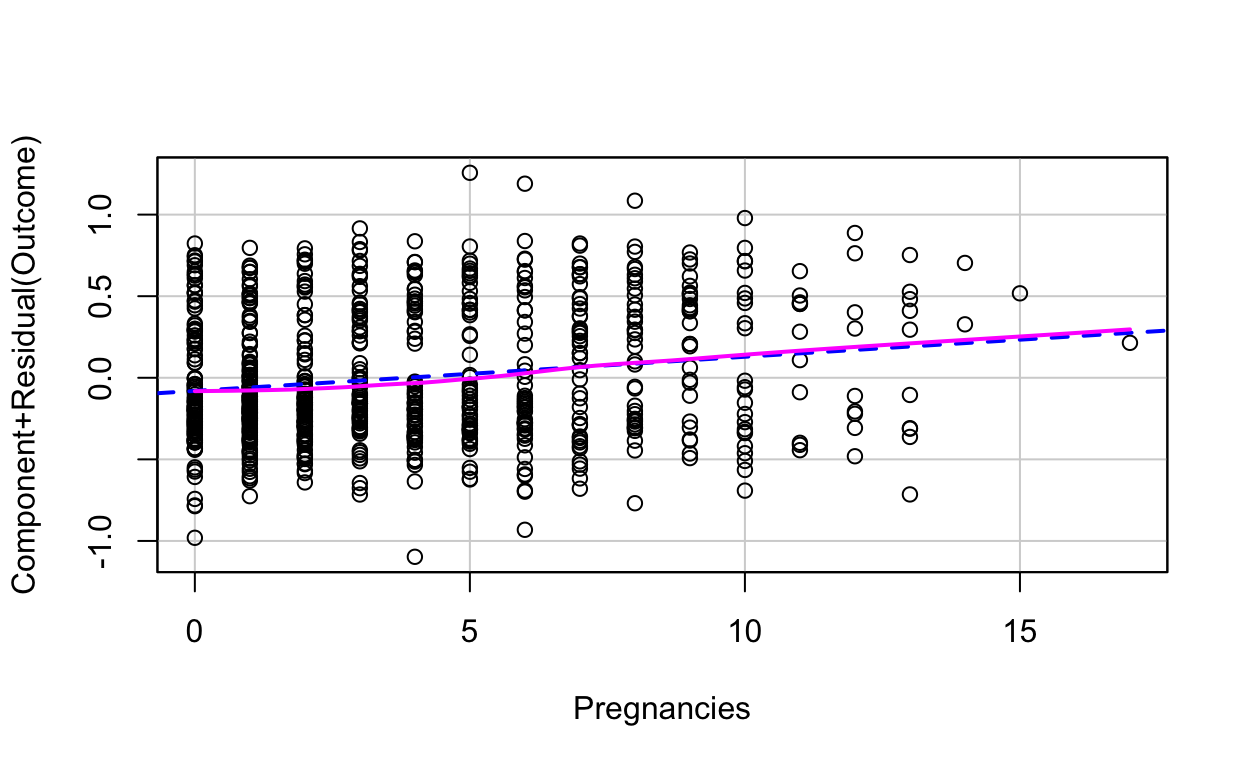
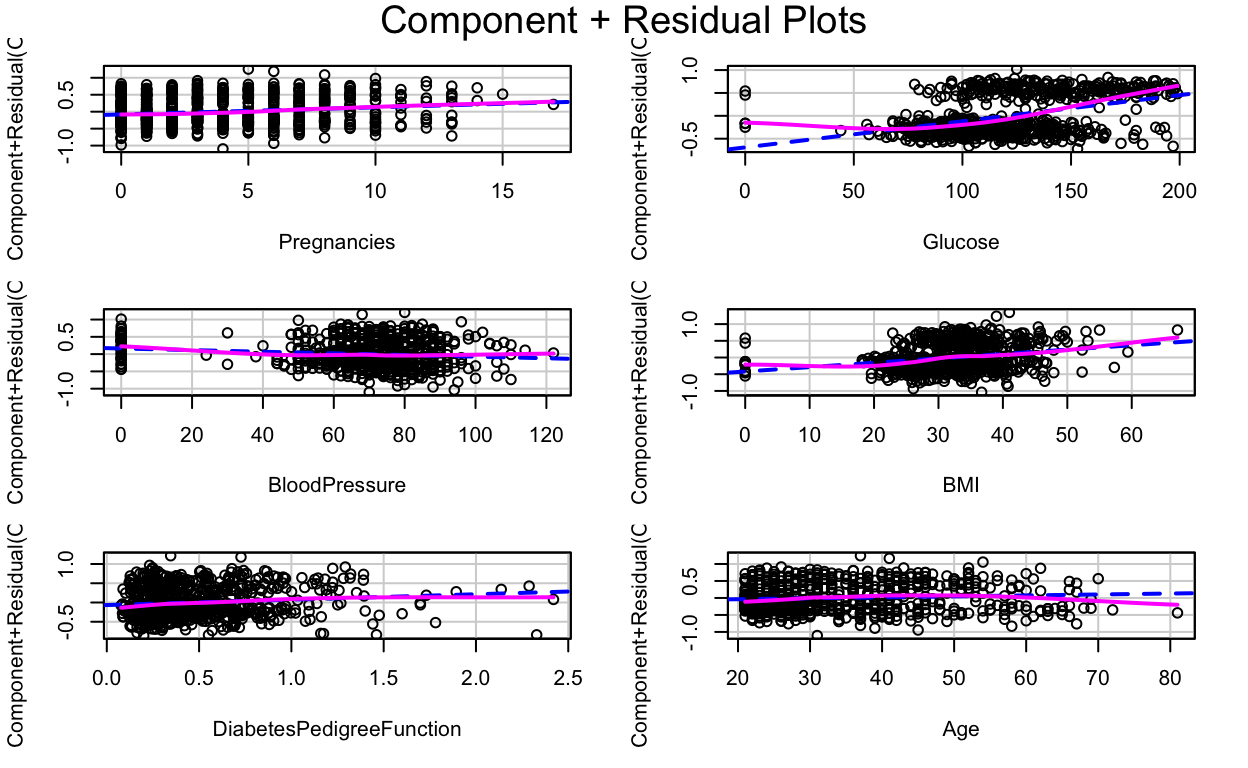
add assumptions to analytical statistics

diff --git a/StatisticaL-Analysis.html b/StatisticaL-Analysis.html
@@ -559,8 +559,6 @@ unseen observations</li>
 <li>Quantify the prediction error as the mean squared difference between
 the observed and the predicted outcome values.</li>
 </ul>
-<p>WE split the data set so that 80% is used for training a regression
-model and 20% is used to evaluate the model performance.</p>
 <p>ALL criterions are similar, so we choose the simplest
 model.(stepmodel)</p>
 <pre class="r"><code>criterion &lt;- c(&quot;AIC&quot;, &quot;AUC&quot;, &quot;RMSE&quot;, &quot;MAE&quot;,&quot;Prediction Accuracy&quot;)
@@ -568,10 +566,10 @@ full_val &lt;- c(783.82,0.7135,0.4249,0.3468,0.7451)
 step_val &lt;- c(781.44,0.7107,0.4249,0.3467,0.7451)
 sub_val &lt;- c(781.84,0.7135,0.4239,0.3461,0.7451)
 variable_data &lt;- data.frame(criterion,full_val,step_val,sub_val)
-kable(variable_data,caption = &quot;Model Comparison&quot;, col.names = c(&quot;Criterion&quot;,&quot;Full Model&quot;,&quot;Stepwise model&quot;,&quot;Subset model&quot;))%&gt;% kable_styling(latex_option = c(&quot;hold_position&quot;), position = &quot;left&quot;)</code></pre>
+kable(variable_data,caption = &quot;Table 1.Model Comparison&quot;, col.names = c(&quot;Criterion&quot;,&quot;Full Model&quot;,&quot;Stepwise model&quot;,&quot;Subset model&quot;))%&gt;% kable_styling(latex_option = c(&quot;hold_position&quot;), position = &quot;left&quot;)</code></pre>
 <table class="table" style>
 <caption>
-Model Comparison
+Table 1.Model Comparison
 </caption>
 <thead>
 <tr>
@@ -662,95 +660,85 @@ Prediction Accuracy
 </tr>
 </tbody>
 </table>
-<p>Root Mean Squared Error (RMSE): As the name suggests it is the square
-root of the averaged squared difference between the actual value and the
-predicted value of the target variable. It gives the average prediction
-error made by the model, thus decrease the RMSE value to increase the
-accuracy of the model.</p>
-<p>Mean Absolute Error (MAE): This metric gives the absolute difference
-between the actual values and the values predicted by the model for the
-target variable. If the value of the outliers does not have much to do
-with the accuracy of the model, then MAE can be used to evaluate the
-performance of the model. Its value must be less in order to make better
-models.</p>
-<div id="what-is-roc-and-auc" class="section level4">
-<h4>What is ROC and AUC?</h4>
-<p>An ROC curve (receiver operating characteristic curve) is a graph
-showing the performance of a classification model at all classification
-thresholds. In technical terms, the ROC curve is plotted between the
-True Positive Rate and the False Positive Rate of a model.</p>
-<p>AUC stands for “Area under the ROC Curve.” That is, AUC measures the
-entire two-dimensional area underneath the entire ROC curve. Higher the
-AUC score, better is the classification of the predicted values. For
-example, consider a model to predict and classify whether the outcome is
-‘Diabetes” or ‘Normal’.So, if the AUC score is high, it indicates that
-the model is capable of classifying ‘Diabetes” as ’Diabetes” and
-‘Normal’ as ‘Normal’ more efficiently.</p>
 </div>
-<div id="why-use-auc" class="section level4">
-<h4>Why use AUC?</h4>
-<p>AUC is desirable for the following two reasons:</p>
-<p>AUC is scale-invariant. It measures how well predictions are ranked,
-rather than their absolute values. AUC is
-classification-threshold-invariant. It measures the quality of the
-model’s predictions irrespective of what classification threshold is
-chosen.</p>
-<pre class="r"><code>predictions &lt;- full_train %&gt;% predict(test.data) 
-predict.class &lt;- ifelse(predictions &lt; 0.5,0,1)
-rocobj1 &lt;- roc(test.data$Outcome, predict.class)</code></pre>
-<pre><code>## Setting levels: control = 0, case = 1</code></pre>
-<pre><code>## Setting direction: controls &lt; cases</code></pre>
-<pre class="r"><code>rocobj1</code></pre>
-<pre><code>## 
-## Call:
-## roc.default(response = test.data$Outcome, predictor = predict.class)
-## 
-## Data: predict.class in 101 controls (test.data$Outcome 0) &lt; 52 cases (test.data$Outcome 1).
-## Area under the curve: 0.7293</code></pre>
-<pre class="r"><code>predictions &lt;- step_train %&gt;% predict(test.data) 
-predict.class &lt;- ifelse(predictions &lt; 0.5,0,1)
-rocobj2 &lt;- roc(test.data$Outcome, predict.class)</code></pre>
-<pre><code>## Setting levels: control = 0, case = 1</code></pre>
-<pre><code>## Setting direction: controls &lt; cases</code></pre>
-<pre class="r"><code>rocobj2</code></pre>
-<pre><code>## 
-## Call:
-## roc.default(response = test.data$Outcome, predictor = predict.class)
-## 
-## Data: predict.class in 101 controls (test.data$Outcome 0) &lt; 52 cases (test.data$Outcome 1).
-## Area under the curve: 0.7194</code></pre>
-<pre class="r"><code>predictions &lt;- subset_train %&gt;% predict(test.data) 
-predict.class &lt;- ifelse(predictions &lt; 0.5,0,1)
-rocobj3 &lt;- roc(test.data$Outcome, predict.class)</code></pre>
-<pre><code>## Setting levels: control = 0, case = 1</code></pre>
-<pre><code>## Setting direction: controls &lt; cases</code></pre>
-<pre class="r"><code>rocobj3</code></pre>
-<pre><code>## 
-## Call:
-## roc.default(response = test.data$Outcome, predictor = predict.class)
-## 
-## Data: predict.class in 101 controls (test.data$Outcome 0) &lt; 52 cases (test.data$Outcome 1).
-## Area under the curve: 0.7293</code></pre>
+<div id="root-mean-squared-error-rmse" class="section level3">
+<h3>Root Mean Squared Error (RMSE):</h3>
+<p>As the name suggests it is the square root of the averaged squared
+difference between the actual value and the predicted value of the
+target variable. It gives the average prediction error made by the
+model, thus decreasing the RMSE value increases the accuracy of the
+mode.</p>
 </div>
+<div id="mean-absolute-error-mae" class="section level3">
+<h3>Mean Absolute Error (MAE):</h3>
+<p>This metric gives the absolute difference between the actual values
+and the values predicted by the model for the target variable. If the
+value of the outliers does not have much to do with the accuracy of the
+model, then MAE can be used to evaluate the performance of the model.
+Its value must be less in order to make better models.</p>
+</div>
+<div id="akaike-information-criterion-aic" class="section level3">
+<h3>Akaike Information Criterion (AIC):</h3>
+<p>It assesses how well a model fits the data it generates.The
+calculation of the AIC relies on the number of independent variables
+used to build the model and the maximum likelihood estimate of the
+model. According to AIC, the best-fitting model is the one that explains
+the greatest amount of variation with the fewest independent variables,
+whichFewer variables will also enhance the optimization of the model to
+reduce error. Each redundant predictor added to the model will introduce
+a penalty.</p>
+</div>
+<div id="area-under-the-roc-curve-auc" class="section level3">
+<h3>Area under the ROC Curve (AUC):</h3>
+<p>An ROC curve is a graph showing the performance of a classification
+model at all classification thresholds. AUC measures the entire
+two-dimensional area underneath the entire ROC curve. The higher the AUC
+score, the better the classification of the predicted values is. For
+example, if we consider a model to predict and classify whether the
+outcome is ‘Diabetes’’ or ‘Normal’, a high AUC indicates that the model
+is capable of classifying ‘Diabetes” as ’Diabetes” and ‘Normal’ as
+‘Normal’ more efficiently. There are two reasons why we compare AUC. On
+one hand, AUC is scale-invariant. It measures the ranking of predictions
+rather than their absolute values. On the other hand, AUC measures the
+quality of the model’s predictions irrespective of what classification
+threshold is chosen. Full model and subset model’s AUC is slightly
+higher than the stepwise model but not with significant statistical
+value.</p>
+</div>
+<div id="prediction-accuracy" class="section level3">
+<h3>Prediction accuracy:</h3>
+<p>Prediction accuracy was calculated by predicting the testing data
+using the model fitted from the training data. If the predicted value is
+less than 0.5, we classified it as 0. If the predicted value is larger
+than 0.5, we classified it as 1. Then we computed the ratio of predicted
+value from the test data to the observed value of testing data to see
+how much percentage of the predicted value matched to the observed value
+and recorded it as prediction accuracy.</p>
+<p>From the comparison table, we see that it returns similar values
+among RMSE of 0.42, MAE of 0.35, prediction accuracy of 0.74. Stepwise
+regression’s AIC and AUC is slightly lower than the full model’s and
+subset model’s respectively but the difference is not statistically
+significant.</p>
+<p>Therefore, we select the stepwise regression model with the fewest
+predictors following the principle of parsimony.</p>
+</div>
+<div id="why-use-aic-instead-of-bic" class="section level3">
+<h3>Why use AIC instead of BIC?</h3>
+<p>The reason we use AIC is because Bayesian information criterion (BIC)
+usually results in more parsimonious model than the Akaike information
+criterion.</p>
 </div>
 </div>
 <div id="model-interpretation" class="section level2">
 <h2>Model interpretation</h2>
-<pre class="r"><code>exp(stepmodel$coefficients)</code></pre>
-<pre><code>##              (Intercept)              Pregnancies                  Glucose 
-##                0.4333112                1.0211469                1.0057254 
-##            BloodPressure                      BMI DiabetesPedigreeFunction 
-##                0.9976456                1.0131667                1.1506209 
-##                      Age 
-##                1.0027956</code></pre>
 <pre class="r"><code>variable_name &lt;- c(&quot;Pregnancies&quot;, &quot;Glucose&quot;, &quot;Blood Pressure&quot;, &quot;BMI&quot;, &quot;Diabetes Pedigree Function&quot;,&quot;Age&quot;)
 val &lt;- c(1.021,1.006,0.998,1.013,1.151,1.003)
 p &lt;- c(&quot;&lt; 0.05&quot;,&quot;&lt; 0.05&quot;,&quot;&lt; 0.05&quot;,&quot;&lt; 0.05&quot;,&quot;&lt; 0.05&quot;,0.069)
 variable_data &lt;- data.frame(variable_name,val,p)
-kable(variable_data,caption = &quot;Parameter estimates for the logistic model&quot;, col.names = c(&quot;Parameters&quot;,&quot;Exponentiated Coefficients/Odds Ratio&quot;,&quot;P-values&quot;))%&gt;% kable_styling(latex_option = c(&quot;hold_position&quot;), position = &quot;left&quot;)</code></pre>
+kable(variable_data,caption = &quot;Table 2.Parameter estimates for the logistic model&quot;, col.names = c(&quot;Parameters&quot;,&quot;Exponentiated Coefficients/Odds Ratio&quot;,&quot;P-values&quot;))%&gt;% kable_styling(latex_option = c(&quot;hold_position&quot;), position = &quot;left&quot;)</code></pre>
 <table class="table" style>
 <caption>
-Parameter estimates for the logistic model
+Table 2.Parameter estimates for the logistic model
 </caption>
 <thead>
 <tr>
@@ -834,31 +822,41 @@ Age
 </tr>
 </tbody>
 </table>
-</div>
-<div id="assumptions-check" class="section level2">
-<h2>Assumptions Check</h2>
+<p>The final best model generated is as following: <span
+class="math display">\[Outcome =
+1.021(Pregnancies)+1.006(Glucose)+0.998(BloodPressure)+1.013(BMI)+1.151(DiabetesPedigreeFunction)+1.003(Age)\]</span>
+## Assumptions Check</p>
 <div id="assumption-1-appropriate-outcome-type" class="section level3">
 <h3>Assumption 1— Appropriate Outcome Type</h3>
-<p>By default, logistic regression assumes that the outcome variable is
-binary, where the number of outcomes is two.</p>
+<p>Our goal is to establish a model to predict the occurrence of
+diabetes where the outcome is “Diabetes” or “Normal”. By default,
+logistic regression assumes that the outcome variable is binary, meeting
+our criteria.</p>
 </div>
 <div id="assumption-2-linearity-of-independent-variables-and-log-odds"
 class="section level3">
 <h3>Assumption 2 — Linearity of independent variables and log-odds</h3>
-<pre class="r"><code>p1&lt;-crPlot(stepmodel, &quot;Pregnancies&quot;)</code></pre>
+<pre class="r"><code>crPlots(stepmodel)</code></pre>
 <p><img src="StatisticaL-Analysis_files/figure-html/unnamed-chunk-17-1.png" width="624" style="display: block; margin: auto;" /></p>
-<pre class="r"><code>p2&lt;-crPlot(stepmodel, &quot;Glucose&quot;)</code></pre>
-<p><img src="StatisticaL-Analysis_files/figure-html/unnamed-chunk-17-2.png" width="624" style="display: block; margin: auto;" /></p>
-<pre class="r"><code>p3&lt;-crPlot(stepmodel, &quot;BloodPressure&quot;)</code></pre>
-<p><img src="StatisticaL-Analysis_files/figure-html/unnamed-chunk-17-3.png" width="624" style="display: block; margin: auto;" /></p>
-<pre class="r"><code>p4&lt;-crPlot(stepmodel, &quot;BMI&quot;)</code></pre>
-<p><img src="StatisticaL-Analysis_files/figure-html/unnamed-chunk-17-4.png" width="624" style="display: block; margin: auto;" /></p>
-<pre class="r"><code>p5&lt;-crPlot(stepmodel, &quot;DiabetesPedigreeFunction&quot;)</code></pre>
-<p><img src="StatisticaL-Analysis_files/figure-html/unnamed-chunk-17-5.png" width="624" style="display: block; margin: auto;" /></p>
-<pre class="r"><code>p6&lt;-crPlot(stepmodel, &quot;Age&quot;)</code></pre>
-<p><img src="StatisticaL-Analysis_files/figure-html/unnamed-chunk-17-6.png" width="624" style="display: block; margin: auto;" /></p>
-<pre class="r"><code>grid.arrange(p1, p2, p3, p4,p5,p6, ncol=3)</code></pre>
-<p><img src="StatisticaL-Analysis_files/figure-html/unnamed-chunk-17-7.png" width="624" style="display: block; margin: auto;" /></p>
+<p>We can check logit linearity by visually inspecting the scatter plot
+between each predictor and the logit values.</p>
+<p>Component residual plot is an extension of partial residual plots,
+which is desirable to check whether predictors have a linear
+relationship with dependent variables. A partial residual plot
+essentially attempts to model the residuals of one predictor against the
+dependent variable. A component residual plot adds a line indicating
+where the line of best fit lies. A significant difference between the
+residual line and the component line indicates that the predictor does
+not have a linear relationship with the dependent variable.</p>
+<p>The blue line shows the expected residuals if the relationship
+between the predictor and response variable was linear. The pink line
+shows the actual residuals. If the blue line and pink line basically
+overlaps, we can conclude that there is a linear relationship between
+the outcome and predictor.</p>
+<p>From component residual plots of each variable, we see that all
+predictors except glucose display a prominent linear relationship with
+outcome. Tails of the pink line in the glucose graph deviated a little
+from the blue line but we can still conclude it linearwise.</p>
 </div>
 <div id="assumption-3-no-strongly-influential-outliers"
 class="section level3">
@@ -876,7 +874,7 @@ standardized residual error can be inspected. Data points with an
 absolute standardized residuals above 3 represent possible outliers and
 may deserve closer attention.</p>
 <pre class="r"><code>plot(stepmodel, which = 4, id.n = 3)</code></pre>
-<p><img src="StatisticaL-Analysis_files/figure-html/unnamed-chunk-18-1.png" width="672" /></p>
+<p><img src="StatisticaL-Analysis_files/figure-html/unnamed-chunk-18-1.png" width="528" style="display: block; margin: auto;" /></p>
 </div>
 <div id="assumption-4-absence-of-multicollinearity"
 class="section level3">
@@ -893,19 +891,23 @@ independent variable.</p>
 <p>The smallest possible value for VIF is 1 (i.e., a complete absence of
 collinearity). As a rule of thumb, a VIF value that exceeds 5 or 10
 indicates a problematic amount of multicollinearity.</p>
-<pre class="r"><code>all_vifs &lt;- car::vif(stepmodel)
-print(all_vifs) %&gt;% tidy()%&gt;%
+<pre class="r"><code>all_vifs &lt;- car::vif(stepmodel)</code></pre>
+<pre class="r"><code>print(all_vifs) %&gt;% tidy()%&gt;%
   mutate(Variables = names,
-         VIF = x)%&gt;%
+         VIF = x) %&gt;%
   dplyr::select(Variables,VIF)%&gt;%
-  knitr::kable(digits = 3)</code></pre>
+  knitr::kable(digits = 3,caption = &quot;Table 3.VIF of all variables&quot;)%&gt;%
+  kable_styling(latex_option = c(&quot;hold_position&quot;), position = &quot;left&quot;)</code></pre>
 <pre><code>##              Pregnancies                  Glucose            BloodPressure 
 ##                 1.427047                 1.143559                 1.154015 
 ##                      BMI DiabetesPedigreeFunction                      Age 
 ##                 1.148072                 1.036558                 1.555786</code></pre>
 <pre><code>## Warning: &#39;tidy.numeric&#39; is deprecated.
 ## See help(&quot;Deprecated&quot;)</code></pre>
-<table>
+<table class="table" style>
+<caption>
+Table 3.VIF of all variables
+</caption>
 <thead>
 <tr>
 <th style="text-align:left;">
@@ -986,8 +988,10 @@ randomly scattered around the centerline of zero, we can infer
 ggplot(model.data, aes(index, .std.resid)) + 
   geom_point(aes(color = factor(Outcome)), alpha = .5) +
   theme_bw()+
-  labs(title=&quot;Residual Series Plot&quot;,y=&quot;Deviance Residuals&quot;)</code></pre>
-<p><img src="StatisticaL-Analysis_files/figure-html/unnamed-chunk-20-1.png" width="672" /></p>
+  labs(title=&quot;Residual Series Plot&quot;,y=&quot;Deviance Residuals&quot;,color=&quot;Outcome&quot;)+
+  theme(plot.title = element_text(color = &quot;darkgrey&quot;,size = 13))+
+  scale_color_manual(labels=c(&quot;Normal&quot;,&quot;Diabetes&quot;),values=c(&quot;blue&quot;,&quot;red&quot;))</code></pre>
+<p><img src="StatisticaL-Analysis_files/figure-html/unnamed-chunk-21-1.png" width="576" style="display: block; margin: auto;" /></p>
 </div>
 <div id="assumption-6-sufficiently-large-sample-size"
 class="section level3">
